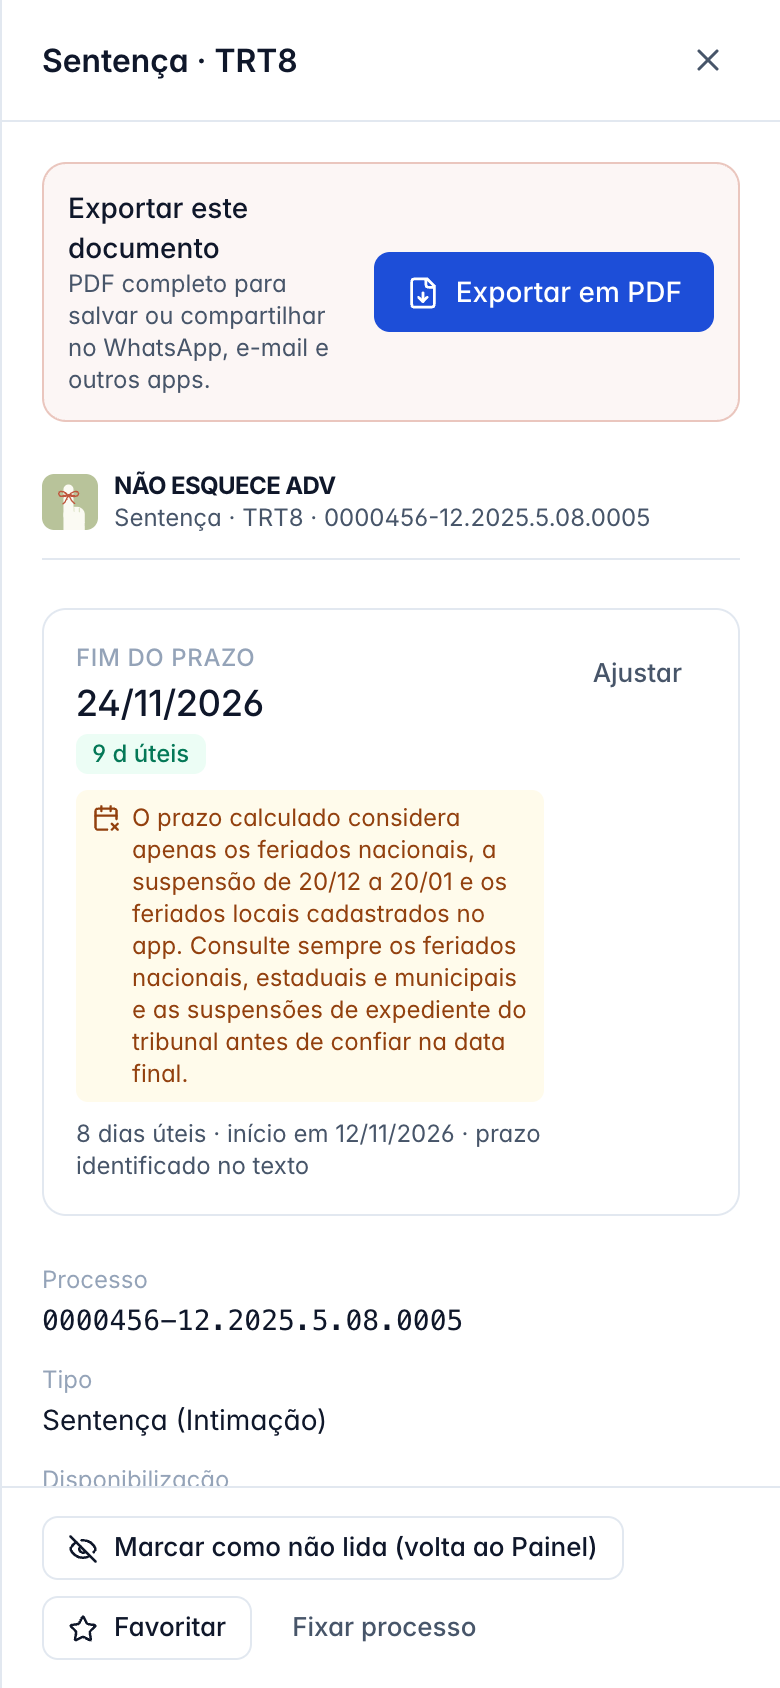
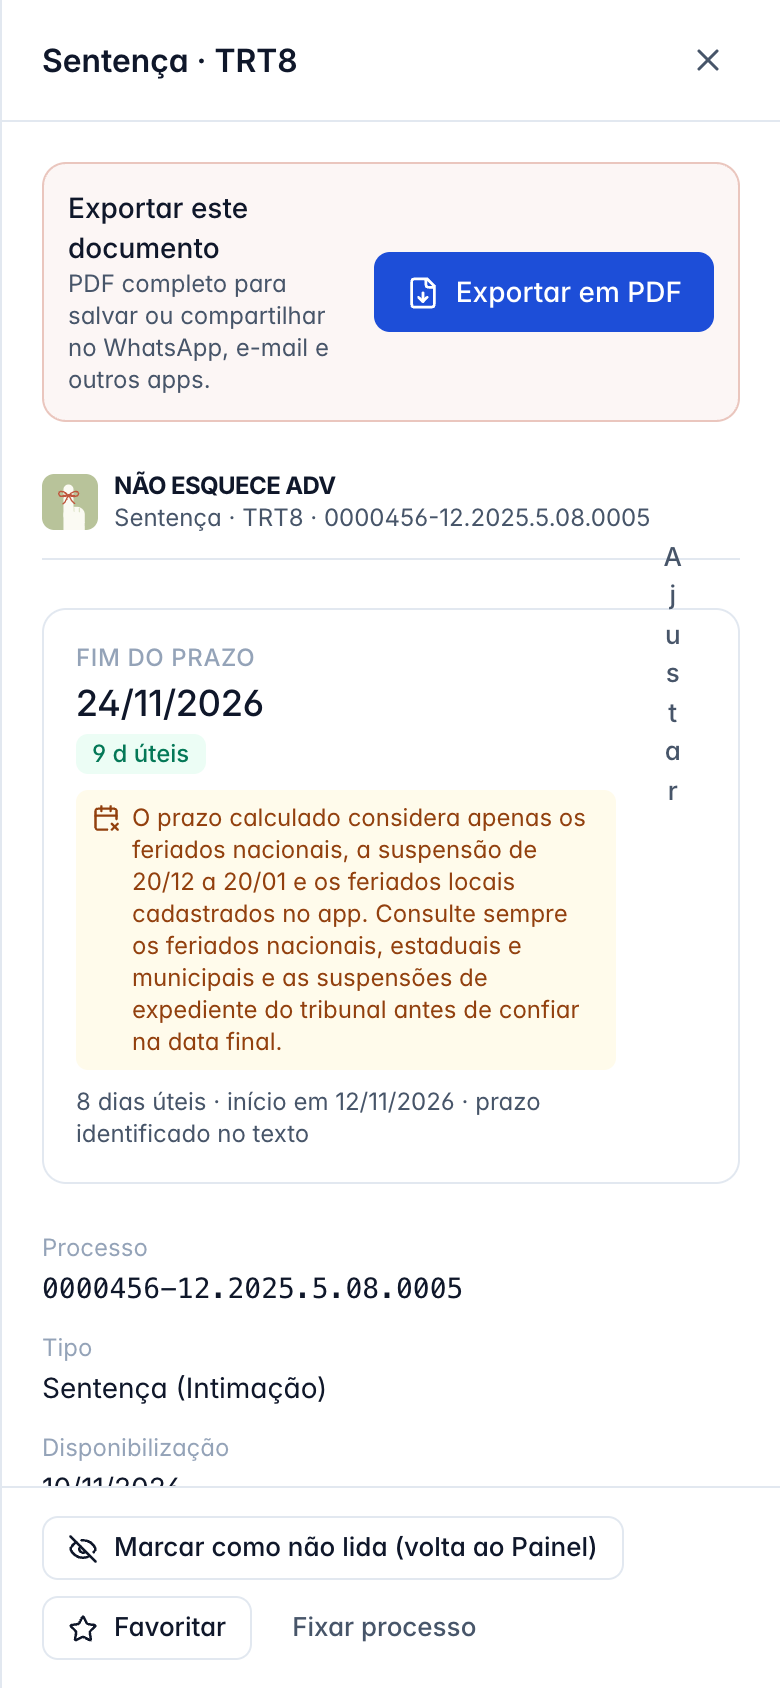
v0.4.5 — PDF justificado e publicação travada na largura do celular
Justificação manual das linhas no PDF; painel e janelas sem rolagem
lateral e quebra de textos longos. Pedidos 31 e 32 registrados.

diff --git a/apps/web/src/lib/export.ts b/apps/web/src/lib/export.ts
@@ -137,6 +137,35 @@ export async function exportPdf(list: Publication[], user: User | null, title = 
 export const EXPORT_FONT = { pdf: 'times', excel: 'Times New Roman', size: 12, lineHeight: 1.5 } as const;
 const LH = EXPORT_FONT.size * EXPORT_FONT.lineHeight; // 18 pt
 
+type PdfDoc = import('jspdf').jsPDF;
+
+/** Desenha uma linha justificada: distribui o espaço que sobra entre as palavras (margens alinhadas). */
+function justifiedLine(doc: PdfDoc, line: string, x: number, y: number, width: number): void {
+  const words = line.trim().split(/\s+/).filter(Boolean);
+  if (words.length < 2) {
+    doc.text(line.trim(), x, y);
+    return;
+  }
+  const wordsWidth = words.reduce((sum, w) => sum + doc.getTextWidth(w), 0);
+  const gap = (width - wordsWidth) / (words.length - 1);
+  // Se a linha for curta demais (gap exagerado), não estica.
+  if (gap > doc.getTextWidth(' ') * 6) {
+    doc.text(words.join(' '), x, y);
+    return;
+  }
+  let cx = x;
+  for (const w of words) {
+    doc.text(w, cx, y);
+    cx += doc.getTextWidth(w) + gap;
+  }
+}
+
+/** Quebra o texto em linhas (espaços repetidos normalizados) para a largura dada. */
+function wrap(doc: PdfDoc, text: string, width: number): string[] {
+  const clean = text.replace(/[ \t\u00a0]+/g, ' ').trim();
+  return clean ? (doc.splitTextToSize(clean, width) as string[]) : [''];
+}
+
 /**
  * Documento completo de UMA publicação, pronto para salvar ou compartilhar:
  * dados do advogado, processo, datas (intimação, publicação, prazo) e inteiro teor.
@@ -170,12 +199,11 @@ export async function publicationPdf(p: Publication, user: User | null): Promise
   /** Parágrafo justificado (última linha à esquerda), com quebra de página. */
   const paragraph = (text: string, x: number, width: number, style: 'normal' | 'bold' | 'italic' = 'normal', color = INK) => {
     font(style, color);
-    const lines: string[] = text.trim() ? doc.splitTextToSize(text.trim(), width) : [''];
+    const lines = wrap(doc, text, width);
     lines.forEach((line, idx) => {
       ensure(LH);
-      const last = idx === lines.length - 1;
-      if (last || !line.includes(' ')) doc.text(line, x, y);
-      else doc.text(line, x, y, { align: 'justify', maxWidth: width });
+      if (idx === lines.length - 1) doc.text(line, x, y);
+      else justifiedLine(doc, line, x, y, width);
       y += LH;
     });
   };
@@ -192,7 +220,7 @@ export async function publicationPdf(p: Publication, user: User | null): Promise
   const field = (label: string, value?: string) => {
     if (!value) return;
     font('normal');
-    const vLines: string[] = doc.splitTextToSize(value, CW - LABEL_W);
+    const vLines = wrap(doc, value, CW - LABEL_W);
     const lLines: string[] = doc.splitTextToSize(label, LABEL_W - 10);
     const rows = Math.max(vLines.length, lLines.length);
     ensure(rows * LH);
@@ -200,9 +228,8 @@ export async function publicationPdf(p: Publication, user: User | null): Promise
     doc.text(lLines, M, y);
     font('normal');
     vLines.forEach((line, idx) => {
-      const last = idx === vLines.length - 1;
-      if (last || !line.includes(' ')) doc.text(line, M + LABEL_W, y + idx * LH);
-      else doc.text(line, M + LABEL_W, y + idx * LH, { align: 'justify', maxWidth: CW - LABEL_W });
+      if (idx === vLines.length - 1) doc.text(line, M + LABEL_W, y + idx * LH);
+      else justifiedLine(doc, line, M + LABEL_W, y + idx * LH, CW - LABEL_W);
     });
     y += rows * LH;
   };

diff --git a/apps/web/src/components/ui.tsx b/apps/web/src/components/ui.tsx
@@ -137,7 +137,7 @@ export function Modal({ open, onClose, title, children, footer, wide }: { open: 
             <X size={18} />
           </IconButton>
         </header>
-        <div className="max-h-[70vh] overflow-y-auto p-5">{children}</div>
+        <div className="max-h-[70vh] overflow-y-auto overflow-x-hidden break-words p-5 [overflow-wrap:anywhere]">{children}</div>
         {footer && <footer className="flex flex-wrap justify-end gap-2 border-t border-line px-5 py-3.5">{footer}</footer>}
       </div>
     </div>
@@ -148,15 +148,15 @@ export function Drawer({ open, onClose, title, children, footer }: { open: boole
   useEsc(open, onClose);
   if (!open) return null;
   return (
-    <div className="fixed inset-0 z-50 flex justify-end bg-slate-950/30 backdrop-blur-[1px]" onMouseDown={(e) => e.target === e.currentTarget && onClose()}>
-      <aside role="dialog" aria-modal="true" aria-label={title} className="flex h-full w-full max-w-2xl flex-col border-l border-line bg-surface shadow-2xl">
+    <div className="fixed inset-0 z-50 flex justify-end overflow-hidden overscroll-contain bg-slate-950/30 backdrop-blur-[1px]" onMouseDown={(e) => e.target === e.currentTarget && onClose()}>
+      <aside role="dialog" aria-modal="true" aria-label={title} className="flex h-full w-full max-w-2xl flex-col overflow-hidden border-l border-line bg-surface shadow-2xl">
         <header className="flex items-center justify-between border-b border-line px-5 py-3.5">
-          <h2 className="truncate font-semibold text-ink">{title}</h2>
+          <h2 className="min-w-0 truncate font-semibold text-ink">{title}</h2>
           <IconButton label="Fechar" onClick={onClose}>
             <X size={18} />
           </IconButton>
         </header>
-        <div className="flex-1 overflow-y-auto p-5">{children}</div>
+        <div className="min-w-0 flex-1 overflow-y-auto overflow-x-hidden overscroll-contain break-words p-5 [overflow-wrap:anywhere]">{children}</div>
         {footer && <footer className="flex flex-wrap gap-2 border-t border-line px-5 py-3.5">{footer}</footer>}
       </aside>
     </div>

diff --git a/apps/web/src/components/publications.tsx b/apps/web/src/components/publications.tsx
@@ -395,11 +395,11 @@ export function PublicationDrawer({ p, onClose, user, onShare }: { p: Publicatio
           )}
         </div>
 
-        <dl className="grid grid-cols-1 gap-x-6 gap-y-3 text-sm sm:grid-cols-2">
+        <dl className="grid min-w-0 grid-cols-1 gap-x-6 gap-y-3 text-sm sm:grid-cols-2">
           {info.map(([k, v]) => (
             <div key={k}>
               <dt className="text-xs text-faint">{k}</dt>
-              <dd className="mt-0.5 text-ink">{v}</dd>
+              <dd className="mt-0.5 break-words text-ink [overflow-wrap:anywhere]">{v}</dd>
             </div>
           ))}
         </dl>
@@ -409,7 +409,7 @@ export function PublicationDrawer({ p, onClose, user, onShare }: { p: Publicatio
             <p className="mb-2 text-xs text-faint">Partes</p>
             <div className="flex flex-wrap gap-1.5">
               {p.parties.map((x) => (
-                <Badge key={x}>{x}</Badge>
+                <Badge key={x} className="!whitespace-normal break-words text-left">{x}</Badge>
               ))}
             </div>
           </div>
@@ -435,7 +435,7 @@ export function PublicationDrawer({ p, onClose, user, onShare }: { p: Publicatio
               )}
             </div>
           </div>
-          <div className="whitespace-pre-wrap rounded-xl bg-muted p-4 text-[14px] leading-7 text-ink">{p.text}</div>
+          <div className="whitespace-pre-wrap break-words rounded-xl bg-muted p-4 text-justify text-[14px] leading-7 text-ink [overflow-wrap:anywhere]">{p.text}</div>
         </div>
 
         <div data-share-exclude>

diff --git a/apps/web/src/app/globals.css b/apps/web/src/app/globals.css
@@ -59,3 +59,6 @@ main > *, .grid > * { min-width: 0; }
 img, svg, video, canvas { max-width: 100%; }
 pre, code { overflow-wrap: anywhere; }
 button svg, a svg { flex-shrink: 0; }
+
+/* Painéis e janelas: nunca rolam para os lados. */
+[role='dialog'] { max-width: 100vw; overflow-x: hidden; }

diff --git a/PEDIDOS/README.md b/PEDIDOS/README.md
@@ -34,6 +34,8 @@ Todo pedido feito ao assistente é salvo aqui, em Markdown, antes de ser executa
 | 28 | 10/11/2026 | Botão "Exportar em PDF" em todas as leituras | [2026-11-10_28_exportar-pdf-em-todas-as-leituras.md](2026-11-10_28_exportar-pdf-em-todas-as-leituras.md) | Concluído (v0.4.3) |
 | 29 | 10/11/2026 | Somente "Exportar em PDF" (sem Compartilhar/PDF) | [2026-11-10_29_somente-exportar-em-pdf.md](2026-11-10_29_somente-exportar-em-pdf.md) | Concluído (v0.4.3) |
 | 30 | 10/11/2026 | "Exportar em PDF" só no topo (sem rodapé) | [2026-11-10_30_pdf-so-no-topo.md](2026-11-10_30_pdf-so-no-topo.md) | Concluído (v0.4.4) |
+| 31 | 10/11/2026 | Texto do PDF não estava justificado | [2026-11-10_31_texto-nao-justificado.md](2026-11-10_31_texto-nao-justificado.md) | Concluído (v0.4.5) |
+| 32 | 10/11/2026 | Publicação aberta ainda mexia para os lados no celular | [2026-11-10_32_tela-mexe-no-celular.md](2026-11-10_32_tela-mexe-no-celular.md) | Concluído (v0.4.5) |
 
 ## Entregas
 
@@ -47,3 +49,4 @@ Todo pedido feito ao assistente é salvo aqui, em Markdown, antes de ser executa
 - **v0.4.2 — 10/11/2026**: pedidos 25 a 27. Aviso de feriados, PDF com Salvar/Compartilhar, exportação em Times 12 justificado 1,5.
 - **v0.4.3 — 10/11/2026**: pedidos 28 e 29. Somente “Exportar em PDF” em toda leitura (salvar ou compartilhar).
 - **v0.4.4 — 10/11/2026**: pedido 30. “Exportar em PDF” só no topo da publicação aberta.
+- **v0.4.5 — 10/11/2026**: pedidos 31 e 32. PDF justificado de verdade; publicação aberta travada na largura do celular.

diff --git a/PEDIDOS/2026-11-10_31_texto-nao-justificado.md b/PEDIDOS/2026-11-10_31_texto-nao-justificado.md
@@ -1,0 +1,14 @@
+# Pedido 31 — Texto do PDF não estava justificado
+
+**Data:** 10/11/2026
+
+## Texto integral
+
+> Texto não está justificado.
+
+(Enviado com captura do inteiro teor no PDF, com a margem direita irregular.)
+
+## Causa e correção
+
+- A opção de justificar da biblioteca de PDF não estica uma linha quando ela é enviada sozinha (trata como última linha do parágrafo). O app enviava linha por linha para controlar a quebra de página, então nada era justificado.
+- Agora a justificação é feita pelo próprio app: o espaço que sobra em cada linha é distribuído entre as palavras, alinhando as margens esquerda e direita. A última linha de cada parágrafo fica à esquerda. Espaços repetidos do texto original são normalizados.

diff --git a/CHANGELOG.md b/CHANGELOG.md
@@ -1,5 +1,13 @@
 # Changelog — NÃO ESQUECE ADV
 
+## [0.4.5] — 10/11/2026
+
+Pedidos atendidos: 31 e 32.
+
+### Corrigido
+- **Texto do PDF justificado de verdade:** a justificação passou a ser feita pelo app (o espaço que sobra em cada linha é distribuído entre as palavras). Última linha do parágrafo à esquerda; espaços repetidos do original normalizados.
+- **Publicação aberta não mexe mais para os lados no celular:** painel e janelas travados na largura da tela; textos longos (classe do processo, vara, nomes das partes, links e inteiro teor) quebram de linha. O inteiro teor na tela também aparece justificado.
+
 ## [0.4.4] — 10/11/2026
 
 Pedido atendido: 30.

diff --git a/PEDIDOS/2026-11-10_32_tela-mexe-no-celular.md b/PEDIDOS/2026-11-10_32_tela-mexe-no-celular.md
@@ -1,0 +1,14 @@
+# Pedido 32 — Publicação aberta ainda mexia para os lados no celular
+
+**Data:** 10/11/2026
+
+## Texto integral
+
+> quando abro no celular ainda é possível mexer a tela.
+
+(Enviado com captura do iPhone: a publicação aberta deslocada para a esquerda, com barra de rolagem horizontal.)
+
+## Causa e correção
+
+- Textos longos sem espaço suficiente para quebrar (tipo/classe do processo, vara, partes, inteiro teor) alargavam o painel da publicação, que permitia rolagem lateral.
+- O painel da publicação e as janelas agora são travados na largura da tela (sem rolagem lateral), e textos longos quebram de linha em qualquer ponto.
